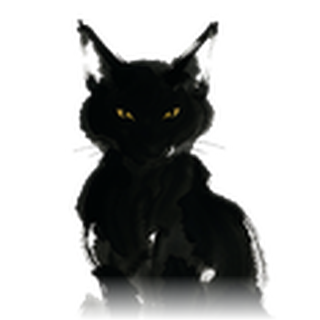
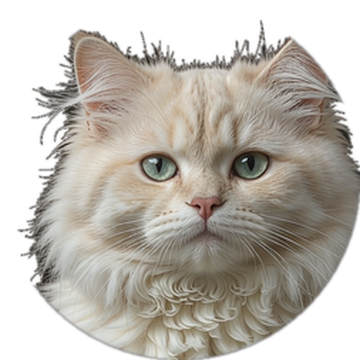
fix(cat): 头像换成真正的 IP 形象（奶油色长毛猫）
站主：「这个头像跟 IP 形象不一样吧」——确实错了两处：
- 上次裁的是 public/brand/xiaohen-a.png（另一只黑猫水墨图）
- 而站点真正的吉祥物是 xiaohen.png（奶油色长毛猫，弹窗标题和桌宠用的都是它）

现在改为从 xiaohen.png 的主体区域裁头部、做圆形遮罩（边缘 1.2px 羽化），
生成 public/brand/xiaohen-avatar.png；弹窗气泡头像去掉浅色圆底，
改成 ring-1 ring-accent/30 + object-cover，和标题栏那只猫保持一致。

预览：NEXT_PUBLIC_PREVIEW_MODE=1 本地构建，**未发布**。

diff --git a/components/CatAssistant.tsx b/components/CatAssistant.tsx
@@ -584,9 +584,9 @@ export function CatAssistant({ locale }: { locale: Locale }) {
                   <div className="flex h-full flex-col justify-center gap-3">
                     {/* 小痕先自我介绍，像是在跟你开口 */}
                     <div className="flex items-start gap-2.5">
-                      <span className="mt-0.5 flex h-8 w-8 shrink-0 items-center justify-center overflow-hidden rounded-full bg-[#f4efe6] p-[3px] shadow-[0_0_0_1px_rgba(201,168,124,0.3)]">
+                      <span className="mt-0.5 h-8 w-8 shrink-0 overflow-hidden rounded-full ring-1 ring-accent/30">
                         {/* eslint-disable-next-line @next/next/no-img-element */}
-                        <img src="/brand/xiaohen-avatar.png" alt="" className="h-full w-full object-contain" />
+                        <img src="/brand/xiaohen-avatar.png" alt="" className="h-full w-full object-cover" />
                       </span>
                       <div className="min-w-0 max-w-[85%]">
                         <p className="mb-1 text-[10px] tracking-wide text-accent/70">{t.catTitle}</p>
